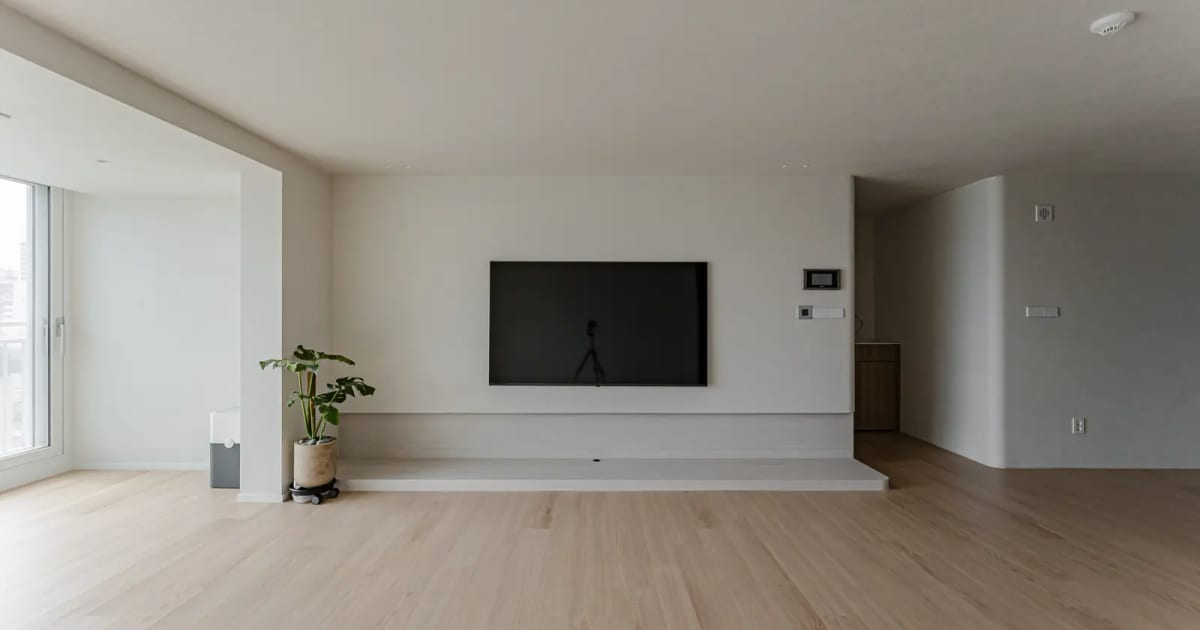
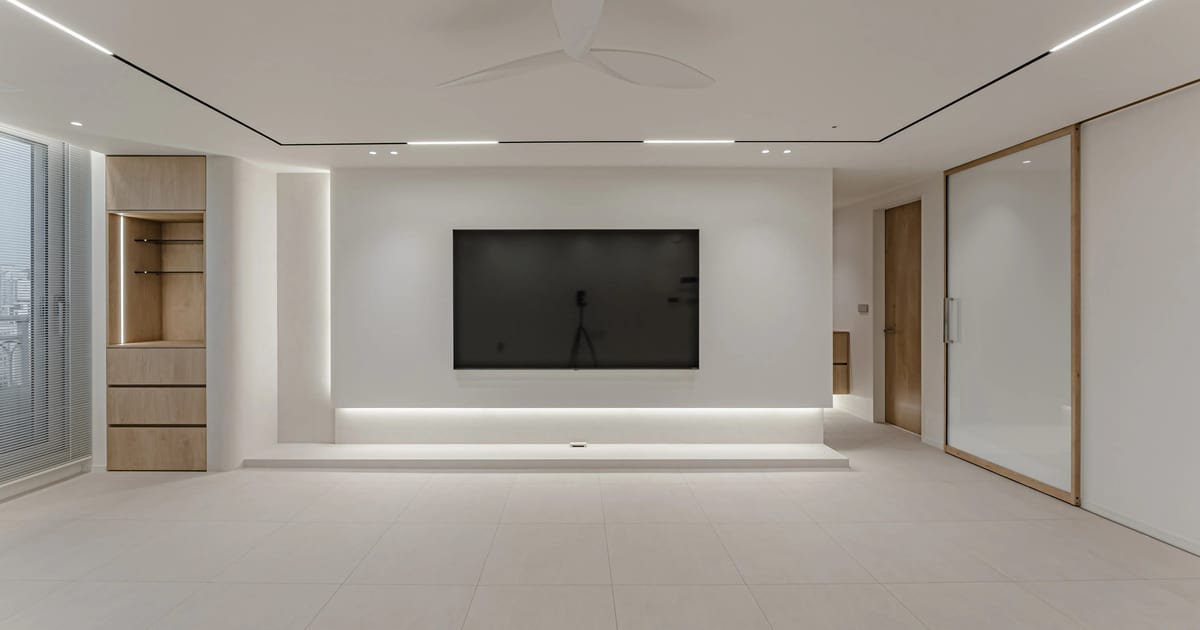
perf: 동기화 사진 단위 증분 + 빌드 캐시 유지 + /portfolio 정적화, 공유 썸네일 교체
- notion-sync: 사진별 키(노션 파일 경로)로 재사용 판단 → 속성·체크 수정은 다운로드 0,
  새/교체 사진만 받음. 파일명은 키 해시. 옛 seed 는 1회 블록 조회로 키 이관
- sync-deploy: 검증 빌드를 .next-verify 에 해서 dev 서버와 분리하고 캐시 유지
- /portfolio: 쿼리 필터를 클라이언트로 옮겨 정적(○) 페이지화 — CDN 캐시, 서버 함수 0.
  Suspense fallback 에 전체 목록 HTML 을 미리 렌더(SEO·첫 화면)
- og.jpg 를 지정 거실 사진으로 교체, metadataBase·sitemap·robots 를 www.planodesign.kr 로

diff --git a/src/app/portfolio/page.tsx b/src/app/portfolio/page.tsx
@@ -1,26 +1,19 @@
 import type { Metadata } from "next";
+import { Suspense } from "react";
 import { getProjects } from "@/lib/data";
-import { filterProjects, spacePhotos, availableRooms } from "@/lib/filter";
-import ProjectCard from "@/components/portfolio/ProjectCard";
-import PortfolioControls from "@/components/portfolio/PortfolioControls";
-import SpaceGallery from "@/components/portfolio/SpaceGallery";
+import { availableRooms } from "@/lib/filter";
+import PortfolioBrowser from "@/components/portfolio/PortfolioBrowser";
+import PortfolioList from "@/components/portfolio/PortfolioList";
 
 export const metadata: Metadata = {
   title: "PORTFOLIO",
   description: "플라노디자인의 인테리어 시공 포트폴리오. 평형·공간별로 둘러보세요.",
 };
 
-interface Props {
-  searchParams: { view?: string; size?: string; q?: string; room?: string };
-}
-
-export default async function PortfolioPage({ searchParams }: Props) {
+// 정적 페이지 — 필터는 PortfolioBrowser 가 브라우저에서 처리한다.
+// Suspense fallback 은 필터 없는 전체 목록을 미리 렌더해 둔 HTML(검색엔진·첫 화면용).
+export default async function PortfolioPage() {
   const all = await getProjects();
-  const isSpace = searchParams.view === "space";
-  const filtered = filterProjects(all, {
-    size: isSpace ? undefined : searchParams.size,
-    q: searchParams.q,
-  });
   const rooms = availableRooms(all);
 
   return (
@@ -30,28 +23,19 @@ export default async function PortfolioPage({ searchParams }: Props) {
         <h1 className="mt-3 text-3xl tracking-tight md:text-4xl">프로젝트</h1>
       </header>
 
-      <PortfolioControls rooms={rooms} />
-
-      <div className="mt-12">
-        {filtered.length === 0 ? (
-          <p className="py-24 text-center text-ink-700/50">검색 결과가 없습니다.</p>
-        ) : isSpace ? (
-          // 세부 공간별 보기 — 프로젝트가 아니라 사진 갤러리(선택한 공간의 사진 전부)
-          <SpaceGallery photos={spacePhotos(filtered, searchParams.room)} />
-        ) : (
-          <div className="grid grid-cols-1 gap-x-2 gap-y-8 sm:grid-cols-2 lg:grid-cols-3">
-            {filtered.map((p, i) => (
-              <div
-                key={p.no}
-                className="animate-fade-up"
-                style={{ animationDelay: `${Math.min(i, 8) * 60}ms` }}
-              >
-                <ProjectCard project={p} />
-              </div>
-            ))}
-          </div>
-        )}
-      </div>
+      <Suspense
+        fallback={
+          <>
+            {/* 필터 영역 자리(측정값) — 하이드레이션 때 목록이 밀리지 않게 */}
+            <div className="h-[150px] md:h-[104px]" aria-hidden="true" />
+            <div className="mt-12">
+              <PortfolioList projects={all} params={{}} />
+            </div>
+          </>
+        }
+      >
+        <PortfolioBrowser projects={all} rooms={rooms} />
+      </Suspense>
     </div>
   );
 }

diff --git a/src/app/layout.tsx b/src/app/layout.tsx
@@ -5,7 +5,7 @@ import Footer from "@/components/layout/Footer";
 import FloatingInquiry from "@/components/layout/FloatingInquiry";
 
 export const metadata: Metadata = {
-  metadataBase: new URL("https://planodesign.kr"),
+  metadataBase: new URL("https://www.planodesign.kr"),
   title: {
     default: "PLANO DESIGN — 플라노디자인",
     template: "%s | PLANO DESIGN",
@@ -17,11 +17,10 @@ export const metadata: Metadata = {
     description: "주거 공간의 설계부터 시공까지, 플라노디자인의 인테리어 포트폴리오.",
     type: "website",
     locale: "ko_KR",
-    // 카톡/SNS 공유 썸네일. 도메인 이전 심사 중이라 현재 라이브 절대주소로 고정
-    // (도메인 열려도 그대로 로드됨). 이미지 교체 시 public/og.jpg 만 바꾸면 된다.
+    // 카톡/SNS 공유 썸네일 — metadataBase 기준 절대주소로 나간다. 교체는 public/og.jpg 만 바꾸면 된다.
     images: [
       {
-        url: "https://plano-site.vercel.app/og.jpg",
+        url: "/og.jpg",
         width: 1200,
         height: 630,
         alt: "PLANO DESIGN 인테리어",
@@ -32,7 +31,7 @@ export const metadata: Metadata = {
     card: "summary_large_image",
     title: "PLANO DESIGN — 플라노디자인",
     description: "주거 공간의 설계부터 시공까지, 플라노디자인의 인테리어 포트폴리오.",
-    images: ["https://plano-site.vercel.app/og.jpg"],
+    images: ["/og.jpg"],
   },
 };
 

diff --git a/src/components/portfolio/PortfolioList.tsx b/src/components/portfolio/PortfolioList.tsx
@@ -1,0 +1,34 @@
+import type { Project } from "@/lib/types";
+import { filterProjects, spacePhotos } from "@/lib/filter";
+import ProjectCard from "./ProjectCard";
+import SpaceGallery from "./SpaceGallery";
+
+export interface ListParams {
+  view?: string;
+  size?: string;
+  q?: string;
+  room?: string;
+}
+
+// 목록 본문 — 서버(정적 HTML 기본 목록)와 클라이언트(쿼리 필터 적용) 양쪽에서 같은 마크업으로 렌더한다.
+export default function PortfolioList({ projects, params }: { projects: Project[]; params: ListParams }) {
+  const isSpace = params.view === "space";
+  const filtered = filterProjects(projects, { size: isSpace ? undefined : params.size, q: params.q });
+
+  if (filtered.length === 0) {
+    return <p className="py-24 text-center text-ink-700/50">검색 결과가 없습니다.</p>;
+  }
+  if (isSpace) {
+    // 세부 공간별 보기 — 프로젝트가 아니라 사진 갤러리(선택한 공간의 사진 전부)
+    return <SpaceGallery photos={spacePhotos(filtered, params.room)} />;
+  }
+  return (
+    <div className="grid grid-cols-1 gap-x-2 gap-y-8 sm:grid-cols-2 lg:grid-cols-3">
+      {filtered.map((p, i) => (
+        <div key={p.no} className="animate-fade-up" style={{ animationDelay: `${Math.min(i, 8) * 60}ms` }}>
+          <ProjectCard project={p} />
+        </div>
+      ))}
+    </div>
+  );
+}

diff --git a/src/components/portfolio/PortfolioBrowser.tsx b/src/components/portfolio/PortfolioBrowser.tsx
@@ -1,0 +1,24 @@
+"use client";
+import { useSearchParams } from "next/navigation";
+import type { Project } from "@/lib/types";
+import PortfolioControls from "./PortfolioControls";
+import PortfolioList from "./PortfolioList";
+
+// 쿼리(?view·size·q·room) 필터를 브라우저에서 처리 → /portfolio 가 정적 페이지로 CDN 캐시된다.
+export default function PortfolioBrowser({ projects, rooms }: { projects: Project[]; rooms: string[] }) {
+  const sp = useSearchParams();
+  const params = {
+    view: sp.get("view") ?? undefined,
+    size: sp.get("size") ?? undefined,
+    q: sp.get("q") ?? undefined,
+    room: sp.get("room") ?? undefined,
+  };
+  return (
+    <>
+      <PortfolioControls rooms={rooms} />
+      <div className="mt-12">
+        <PortfolioList projects={projects} params={params} />
+      </div>
+    </>
+  );
+}

diff --git a/src/lib/types.ts b/src/lib/types.ts
@@ -9,6 +9,8 @@ export interface ProjectImage {
   /** 변환된 webp 의 실제 치수 — 갤러리에서 원본 비율대로 표시(세로/가로 혼재) */
   width?: number;
   height?: number;
+  /** 노션 파일 경로(서명 제외) — 동기화가 사진 단위 재사용 판단에 쓴다 */
+  key?: string;
   sortOrder: number;
 }
 

diff --git a/src/app/sitemap.ts b/src/app/sitemap.ts
@@ -1,7 +1,7 @@
 import type { MetadataRoute } from "next";
 import { getProjects } from "@/lib/data";
 
-const BASE = "https://planodesign.kr";
+const BASE = "https://www.planodesign.kr";
 
 export default async function sitemap(): Promise<MetadataRoute.Sitemap> {
   const projects = await getProjects();

diff --git a/src/app/robots.ts b/src/app/robots.ts
@@ -3,6 +3,6 @@ import type { MetadataRoute } from "next";
 export default function robots(): MetadataRoute.Robots {
   return {
     rules: { userAgent: "*", allow: "/" },
-    sitemap: "https://planodesign.kr/sitemap.xml",
+    sitemap: "https://www.planodesign.kr/sitemap.xml",
   };
 }
